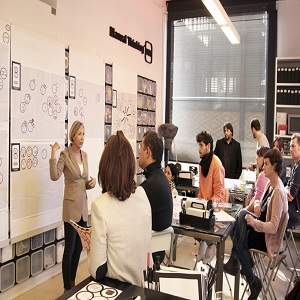
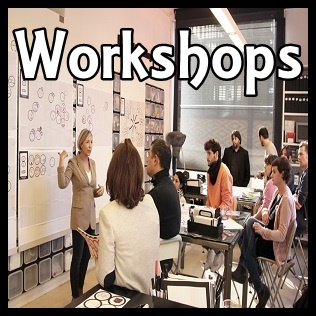
Photo changed
I changed photos and news title

diff --git a/RWD/index.html b/RWD/index.html
@@ -54,7 +54,7 @@
             </table>
         </div>
         <div class="news">
-            <h3 class="news-title">News</h3>
+            <h1 class="news-title">News</h1>
             <h4>The monk who rules the world </h4>
             <p>Last week a munch has won the break dance competition. We are more than happy to inform that one of our monks
                 has won the world wide known break dance competition BC-One. Congratulation from the whole VIA team! See

diff --git a/RWD/css/homepage.css b/RWD/css/homepage.css
@@ -31,19 +31,22 @@ h4, h3 {
     padding-left: 125px;
 }
 
-.news {
+news {
     font-style: solid;
     font-family: 'Times New Roman', Times, serif;
     font-weight: bold;
     text-indent: 20px;
     margin-left: 210px;
-    width: 75%;
-}
+    width: 75%;}
+    
 
 .news-title {
     text-align: center;
     font-weight: bold;
-    font-size: 200%
+    font-style: oblique;
+    font-family:fantasy;
+    color: #a37fa3;
+    font-size: 500%;
 }
 
 td img {
